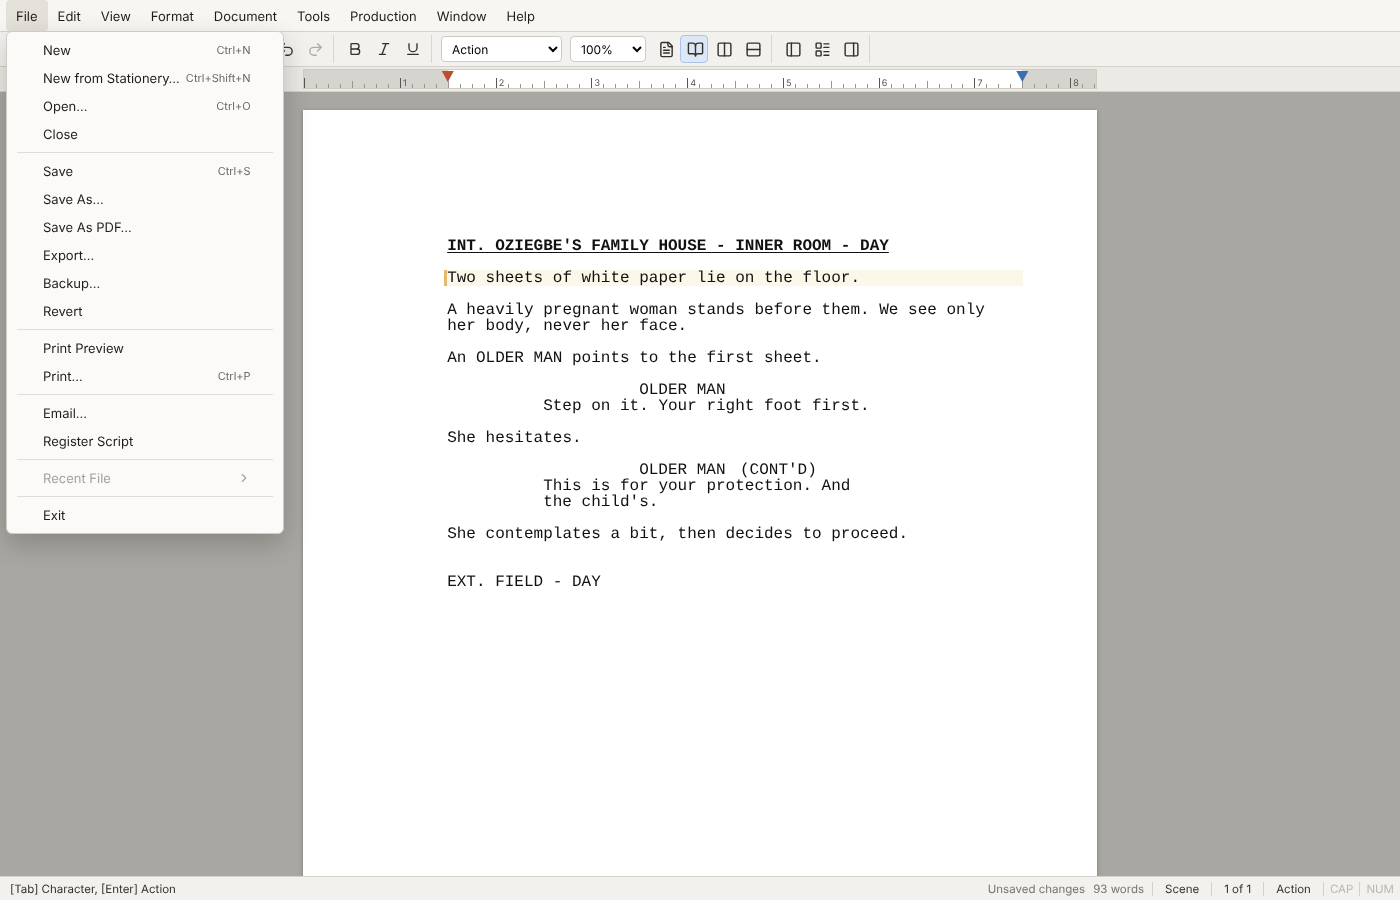
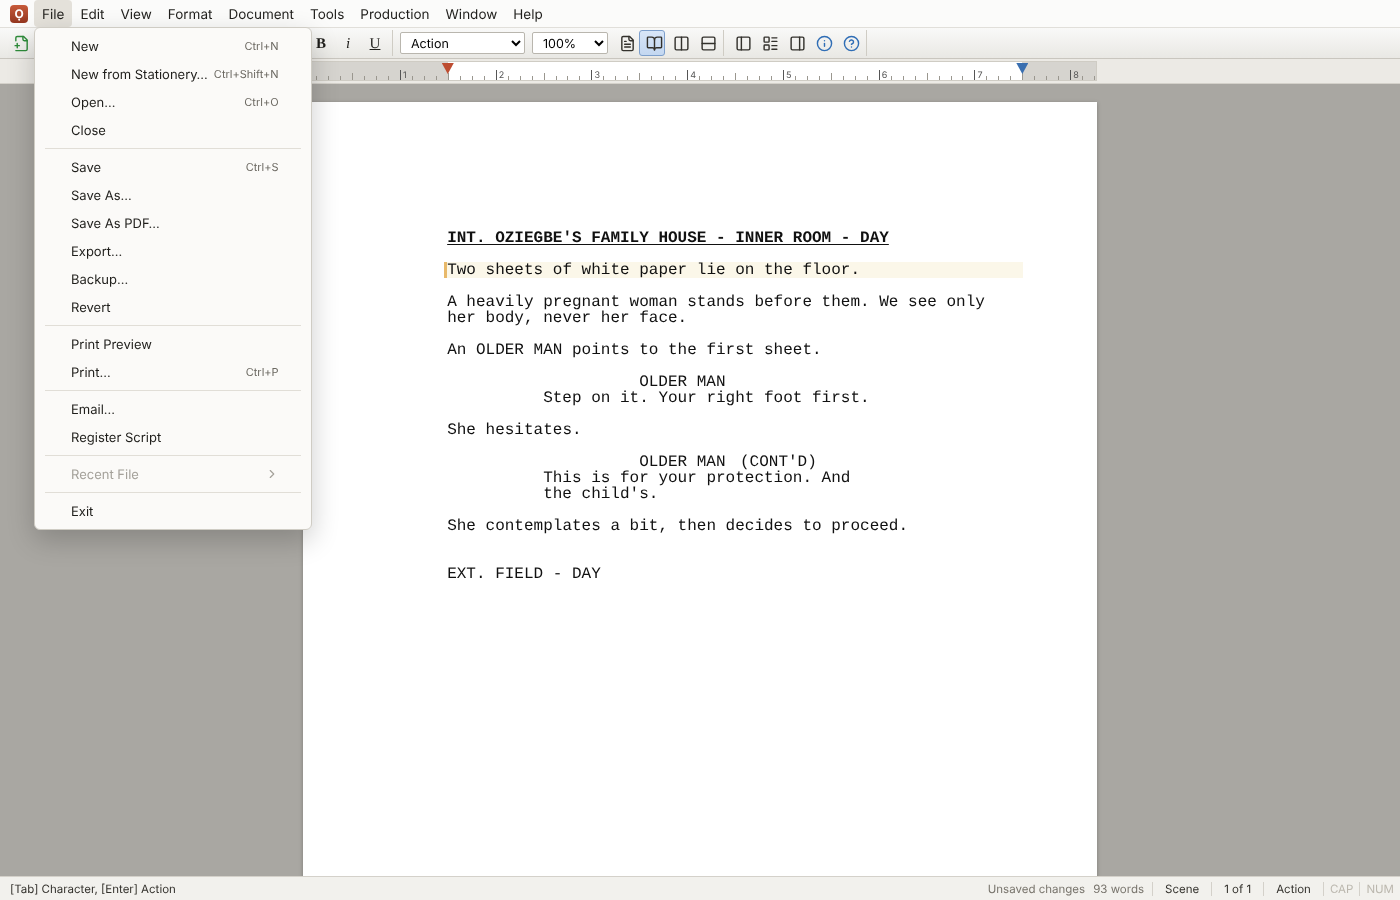
Final Draft-style top bar: app mark, compact colour-coded toolbar, info and help buttons
Claude-Session: https://claude.ai/code/session_01Xr9mUhug5m1bH8QUMF8VL6

Changed region(s): [[0.0, 0.0, 1.0, 0.5911], [0.3071, 0.2489, 0.7064, 0.4978], [0.3071, 0.4978, 0.645, 0.6533]]

diff --git a/src/components/EditorChrome.tsx b/src/components/EditorChrome.tsx
@@ -1,5 +1,5 @@
 import { useRef } from "react";
-import { BookOpen, Bold, Clipboard, Columns2, Copy, FilePlus2, FileText, FolderOpen, Italic, LayoutList, PanelLeft, PanelRight, Printer, Redo2, Rows2, Save, Scissors, SpellCheck, Underline, Undo2 } from "lucide-react";
+import { BookOpen, CircleHelp, Info, Clipboard, Columns2, Copy, FilePlus2, FileText, FolderOpen, LayoutList, PanelLeft, PanelRight, Printer, Redo2, Rows2, Save, Scissors, SpellCheck, Undo2 } from "lucide-react";
 import { ELEMENT_LABELS, type ScreenplayElementType } from "../lib/screenplay-elements";
 
 export const SELECTABLE_TYPES: ScreenplayElementType[] = ["scene-heading", "action", "character", "parenthetical", "dialogue", "transition", "shot", "general"];
@@ -8,11 +8,11 @@ export const ZOOMS = [50, 75, 90, 100, 110, 125, 150, 175, 200];
 export interface ToolbarActions {
   newScript(): void; open(): void; save(): void; print(): void; spelling(): void; cut(): void; copy(): void; paste(): void;
   undo(): void; redo(): void; format(style: "bold" | "italic" | "underline"): void; setType(type: ScreenplayElementType): void; setZoom(zoom: number): void;
-  normalView(): void; pageView(): void; splitVertical(): void; splitHorizontal(): void; toggleNavigator(): void; toggleProperties(): void; cards(): void;
+  normalView(): void; pageView(): void; info(): void; help(): void; splitVertical(): void; splitHorizontal(): void; toggleNavigator(): void; toggleProperties(): void; cards(): void;
 }
 
-const Tool = ({ id, label, hidden, onClick, disabled, active, children }: { id: string; label: string; hidden: string[]; onClick(): void; disabled?: boolean; active?: boolean; children: React.ReactNode }) =>
-  hidden.includes(id) ? null : <button className={`tool ${active ? "active" : ""}`} aria-label={label} title={label} disabled={disabled} onMouseDown={(event) => event.preventDefault()} onClick={onClick}>{children}</button>;
+const Tool = ({ id, label, hidden, onClick, disabled, active, children, tint }: { id: string; label: string; hidden: string[]; onClick(): void; disabled?: boolean; active?: boolean; children: React.ReactNode; tint?: string }) =>
+  hidden.includes(id) ? null : <button className={`tool ${tint ? `tint-${tint}` : ""} ${active ? "active" : ""}`} aria-label={label} title={label} disabled={disabled} onMouseDown={(event) => event.preventDefault()} onClick={onClick}>{children}</button>;
 
 export function Toolbar({ actions, hidden, activeType, zoom, canUndo, canRedo, canSave, view, split, navigator, properties }: {
   actions: ToolbarActions; hidden: string[]; activeType: ScreenplayElementType; zoom: number; canUndo: boolean; canRedo: boolean; canSave: boolean;
@@ -21,23 +21,23 @@ export function Toolbar({ actions, hidden, activeType, zoom, canUndo, canRedo, c
   const group = (ids: string[], content: React.ReactNode) => ids.every((id) => hidden.includes(id)) ? null : <div className="tool-group">{content}</div>;
   return <div className="toolbar" role="toolbar" aria-label="Toolbar">
     {group(["new", "open", "save"], <>
-      <Tool id="new" label="New (Ctrl+N)" hidden={hidden} onClick={actions.newScript}><FilePlus2 size={17}/></Tool>
-      <Tool id="open" label="Open (Ctrl+O)" hidden={hidden} onClick={actions.open}><FolderOpen size={17}/></Tool>
-      <Tool id="save" label="Save (Ctrl+S)" hidden={hidden} disabled={!canSave} onClick={actions.save}><Save size={17}/></Tool></>)}
+      <Tool id="new" label="New (Ctrl+N)" tint="green" hidden={hidden} onClick={actions.newScript}><FilePlus2 size={17}/></Tool>
+      <Tool id="open" label="Open (Ctrl+O)" tint="amber" hidden={hidden} onClick={actions.open}><FolderOpen size={17}/></Tool>
+      <Tool id="save" label="Save (Ctrl+S)" tint="blue" hidden={hidden} disabled={!canSave} onClick={actions.save}><Save size={17}/></Tool></>)}
     {group(["print", "spelling"], <>
-      <Tool id="print" label="Print (Ctrl+P)" hidden={hidden} onClick={actions.print}><Printer size={17}/></Tool>
-      <Tool id="spelling" label="Spelling (Ctrl+D)" hidden={hidden} onClick={actions.spelling}><SpellCheck size={17}/></Tool></>)}
+      <Tool id="print" label="Print (Ctrl+P)" tint="slate" hidden={hidden} onClick={actions.print}><Printer size={17}/></Tool>
+      <Tool id="spelling" label="Spelling (Ctrl+D)" tint="red" hidden={hidden} onClick={actions.spelling}><SpellCheck size={17}/></Tool></>)}
     {group(["cut", "copy", "paste"], <>
-      <Tool id="cut" label="Cut (Ctrl+X)" hidden={hidden} onClick={actions.cut}><Scissors size={17}/></Tool>
-      <Tool id="copy" label="Copy (Ctrl+C)" hidden={hidden} onClick={actions.copy}><Copy size={17}/></Tool>
-      <Tool id="paste" label="Paste (Ctrl+V)" hidden={hidden} onClick={actions.paste}><Clipboard size={17}/></Tool></>)}
+      <Tool id="cut" label="Cut (Ctrl+X)" tint="slate" hidden={hidden} onClick={actions.cut}><Scissors size={17}/></Tool>
+      <Tool id="copy" label="Copy (Ctrl+C)" tint="slate" hidden={hidden} onClick={actions.copy}><Copy size={17}/></Tool>
+      <Tool id="paste" label="Paste (Ctrl+V)" tint="slate" hidden={hidden} onClick={actions.paste}><Clipboard size={17}/></Tool></>)}
     {group(["undo", "redo"], <>
-      <Tool id="undo" label="Undo (Ctrl+Z)" hidden={hidden} disabled={!canUndo} onClick={actions.undo}><Undo2 size={17}/></Tool>
-      <Tool id="redo" label="Redo (Ctrl+Y)" hidden={hidden} disabled={!canRedo} onClick={actions.redo}><Redo2 size={17}/></Tool></>)}
+      <Tool id="undo" label="Undo (Ctrl+Z)" tint="violet" hidden={hidden} disabled={!canUndo} onClick={actions.undo}><Undo2 size={17}/></Tool>
+      <Tool id="redo" label="Redo (Ctrl+Y)" tint="violet" hidden={hidden} disabled={!canRedo} onClick={actions.redo}><Redo2 size={17}/></Tool></>)}
     {group(["format"], <>
-      <Tool id="format" label="Bold" hidden={hidden} onClick={() => actions.format("bold")}><Bold size={16}/></Tool>
-      <Tool id="format" label="Italic" hidden={hidden} onClick={() => actions.format("italic")}><Italic size={16}/></Tool>
-      <Tool id="format" label="Underline" hidden={hidden} onClick={() => actions.format("underline")}><Underline size={16}/></Tool></>)}
+      <Tool id="format" label="Bold" hidden={hidden} onClick={() => actions.format("bold")}><b className="fmt">B</b></Tool>
+      <Tool id="format" label="Italic" hidden={hidden} onClick={() => actions.format("italic")}><i className="fmt">i</i></Tool>
+      <Tool id="format" label="Underline" hidden={hidden} onClick={() => actions.format("underline")}><u className="fmt">U</u></Tool></>)}
     {!hidden.includes("element") && <select className="tool-select" aria-label="Screenplay element" value={SELECTABLE_TYPES.includes(activeType) ? activeType : "action"} onChange={(event) => actions.setType(event.target.value as ScreenplayElementType)}>{SELECTABLE_TYPES.map((type) => <option key={type} value={type}>{ELEMENT_LABELS[type]}</option>)}</select>}
     {!hidden.includes("zoom") && <select className="tool-select zoom" aria-label="Zoom" value={zoom} onChange={(event) => actions.setZoom(Number(event.target.value))}>{ZOOMS.map((value) => <option key={value} value={value}>{value}%</option>)}</select>}
     {group(["views"], <>
@@ -48,7 +48,9 @@ export function Toolbar({ actions, hidden, activeType, zoom, canUndo, canRedo, c
     {group(["navigator", "properties"], <>
       <Tool id="navigator" label="Navigator" hidden={hidden} active={navigator} onClick={actions.toggleNavigator}><PanelLeft size={17}/></Tool>
       <Tool id="navigator" label="Index cards" hidden={hidden} onClick={actions.cards}><LayoutList size={17}/></Tool>
-      <Tool id="properties" label="Scene Properties" hidden={hidden} active={properties} onClick={actions.toggleProperties}><PanelRight size={17}/></Tool></>)}
+      <Tool id="properties" label="Scene Properties" hidden={hidden} active={properties} onClick={actions.toggleProperties}><PanelRight size={17}/></Tool>
+      <Tool id="info" label="Script information" hidden={hidden} tint="blue" onClick={actions.info}><Info size={17}/></Tool>
+      <Tool id="help" label="Help (F1)" hidden={hidden} tint="blue" onClick={actions.help}><CircleHelp size={17}/></Tool></>)}
   </div>;
 }
 

diff --git a/src/components/Editor.tsx b/src/components/Editor.tsx
@@ -837,6 +837,7 @@ export function Editor(props: EditorProps) {
 
   return <div className={`studio fd-studio ${focusMode ? "focus-mode" : ""}`} onClick={() => contextMenu && setContextMenu(null)}>
     <header className="fd-menubar-row">
+      <span className="app-mark" title="Olukotan" aria-hidden>Ọ</span>
       <MenuBar menus={menus}/>
       {collab && <span className={`collab-pill ${collab.status}`} onClick={() => setCollabPanel(true)}>{participants.length || 1} co-writing</span>}
     </header>
@@ -845,7 +846,7 @@ export function Editor(props: EditorProps) {
       actions={{ newScript: () => leaveWith(() => props.onNew?.()), open: () => leaveWith(() => props.onOpen?.()), save: onSave, print: () => void print(), spelling: () => setDialog("spelling"),
         cut: () => void clipboardAction("cut"), copy: () => void clipboardAction("copy"), paste: () => void clipboardAction("paste"), undo, redo, format: toggleFormat, setType: (type) => changeType(type), setZoom,
         normalView: () => { setSplit("none"); setViewMode("continuous"); }, pageView: () => { setSplit("none"); setViewMode("page"); }, splitVertical: () => setSplit(split === "vertical" ? "none" : "vertical"), splitHorizontal: () => setSplit(split === "horizontal" ? "none" : "horizontal"),
-        toggleNavigator: () => setShowNavigator(!showNavigator), toggleProperties: () => setShowProperties(!showProperties), cards: () => setView(view === "cards" ? "script" : "cards") }}/>}
+        info: () => { setReportTab("Summary"); setDialog("reports"); }, help: () => setDialog("help"), toggleNavigator: () => setShowNavigator(!showNavigator), toggleProperties: () => setShowProperties(!showProperties), cards: () => setView(view === "cards" ? "script" : "cards") }}/>}
     {showChrome && toolbarPrefs.showRuler && view === "script" && <Ruler widthIn={geometry.widthIn} zoom={zoom} left={activeSpec.left} right={activeSpec.right}
       onChange={(left, right) => commitDocument(document, undefined, false, { ...projectData, elementStyles: { ...projectData.elementStyles, [active?.type ?? "action"]: { ...projectData.elementStyles?.[active?.type ?? "action"], left, right } } })}/>}
     <div className={`fd-body ${showChrome && showNavigator ? "with-nav" : ""} ${(showChrome && showProperties) || collabPanel ? "with-side" : ""}`}>

diff --git a/src/styles.css b/src/styles.css
@@ -194,3 +194,16 @@
 @media(max-width:900px){.fd-nav,.scene-properties,.collab-panel{display:none}.ol-grid2,.ol-grid3,.ol-split,.ol-templates{grid-template-columns:1fr}.fd-title strong{max-width:140px}.menu-top{padding:0 6px}}
 
 .fd-menubar-row{justify-content:flex-start;gap:12px}.sb-save{color:var(--muted)}
+
+/* Classic top bar: app mark + menus, then one compact toolbar row */
+.fd-menubar-row{height:28px;background:#fbfbfa;border-bottom:1px solid #e1dfda;gap:4px}
+.app-mark{width:18px;height:18px;border-radius:4px;background:linear-gradient(#c75a3a,#93361f);color:#fff;font:700 12px/18px "Segoe UI",sans-serif;text-align:center;margin:0 2px 0 4px;flex-shrink:0}
+.menu-top{font-size:13.5px;padding:0 8px}
+.toolbar{background:linear-gradient(#f9f9f8,#e9e8e4);border-bottom:1px solid #c9c6bf;padding:2px 6px;gap:1px;flex-wrap:nowrap;overflow-x:auto}
+.tool-group{border-right:1px solid #cfccc4;padding-right:4px;margin-right:3px}
+.tool{width:26px;height:26px;border-radius:3px}
+.tool:hover:not(:disabled){background:linear-gradient(#fdfdfd,#e3eaf4);border-color:#9fb6d6}
+.tool.active{background:linear-gradient(#d8e6f8,#c3d7f1);border-color:#7d9fcc}
+.tint-green{color:#2e8b3a}.tint-amber{color:#c98a12}.tint-blue{color:#2f6db5}.tint-red{color:#b8322a}.tint-violet{color:#5b4bb0}.tint-slate{color:#4a4f57}
+.tool .fmt{font:700 15px "Times New Roman",Georgia,serif;color:#1f1e1b}.tool i.fmt{font-weight:400;font-style:italic}.tool u.fmt{font-weight:400}
+.tool-select{height:22px;font-size:12.5px;border-radius:2px;border-color:#b9b6ae}
